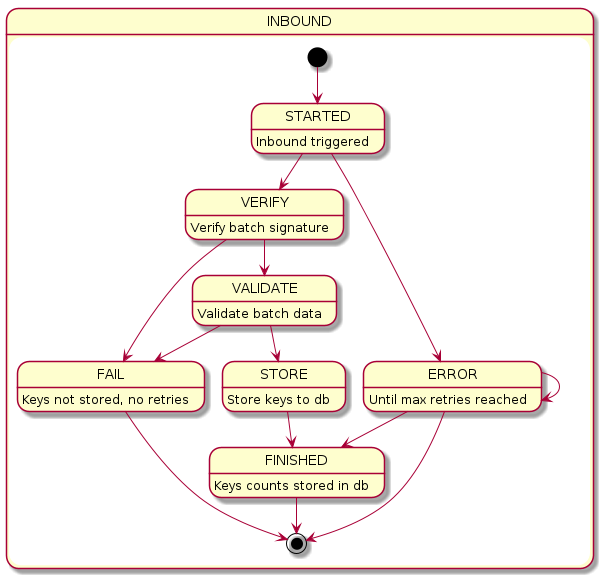
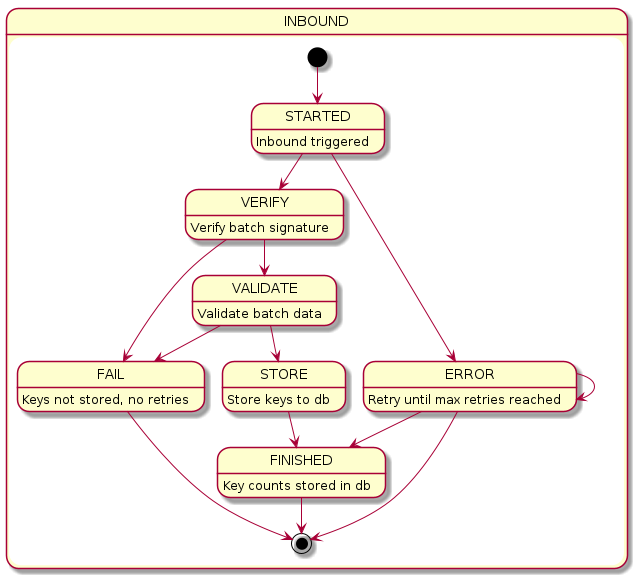
fixes based on review

diff --git a/exposure-notification/README.md b/exposure-notification/README.md
@@ -95,7 +95,7 @@ Configurable values use [Duration parsing rules](https://docs.oracle.com/javase/
 ## European Federation Gateway Service (EFGS) integration
 
 EFGS is an official European solution for interoperability between European national COVID19 application backend servers.
-EFGS allows national backends change keys, which effectively means that national COVID-19 mobile tracing apps are compatible with each other.
+EFGS allows national backends to change keys, which effectively means that national COVID-19 mobile tracing apps are compatible with each other.
 More information, source code and api definition of EFGS can be found from GitHub: https://github.com/eu-federation-gateway-service/efgs-federation-gateway.
 
 ### EFGS related properties
@@ -122,9 +122,9 @@ user provided data of visited countries.
 
 ![efgs_inbound.png](../documentation/generated_images/efgs_inbound.png)
 
-* Inbound keys will be verified and validated on receive and then mixed with local keys in the database
-  * Inbound will be made based on callback request when it arrives or once in a day after UTC midnight
-  * Keys can be separated on database level by origin field. Origin will not be send to the mobile app, which sees
+* Inbound keys will be verified and validated on reception and then mixed with local keys in the database
+  * Inbound operation will be made based on callback request when it arrives or once in a day after UTC midnight
+  * Keys can be separated on the database level by origin field. Origin will not be sent to the mobile app. The mobile app sees
   all keys coming with region FI, which in this context refers to region of national server region, not the actual keys.
   * More information about verification can be found e.g from [EFGS documentation of certificate governance](https://ec.europa.eu/health/sites/health/files/ehealth/docs/mobileapps_interop_certificate_governance_en.pdf)
 
